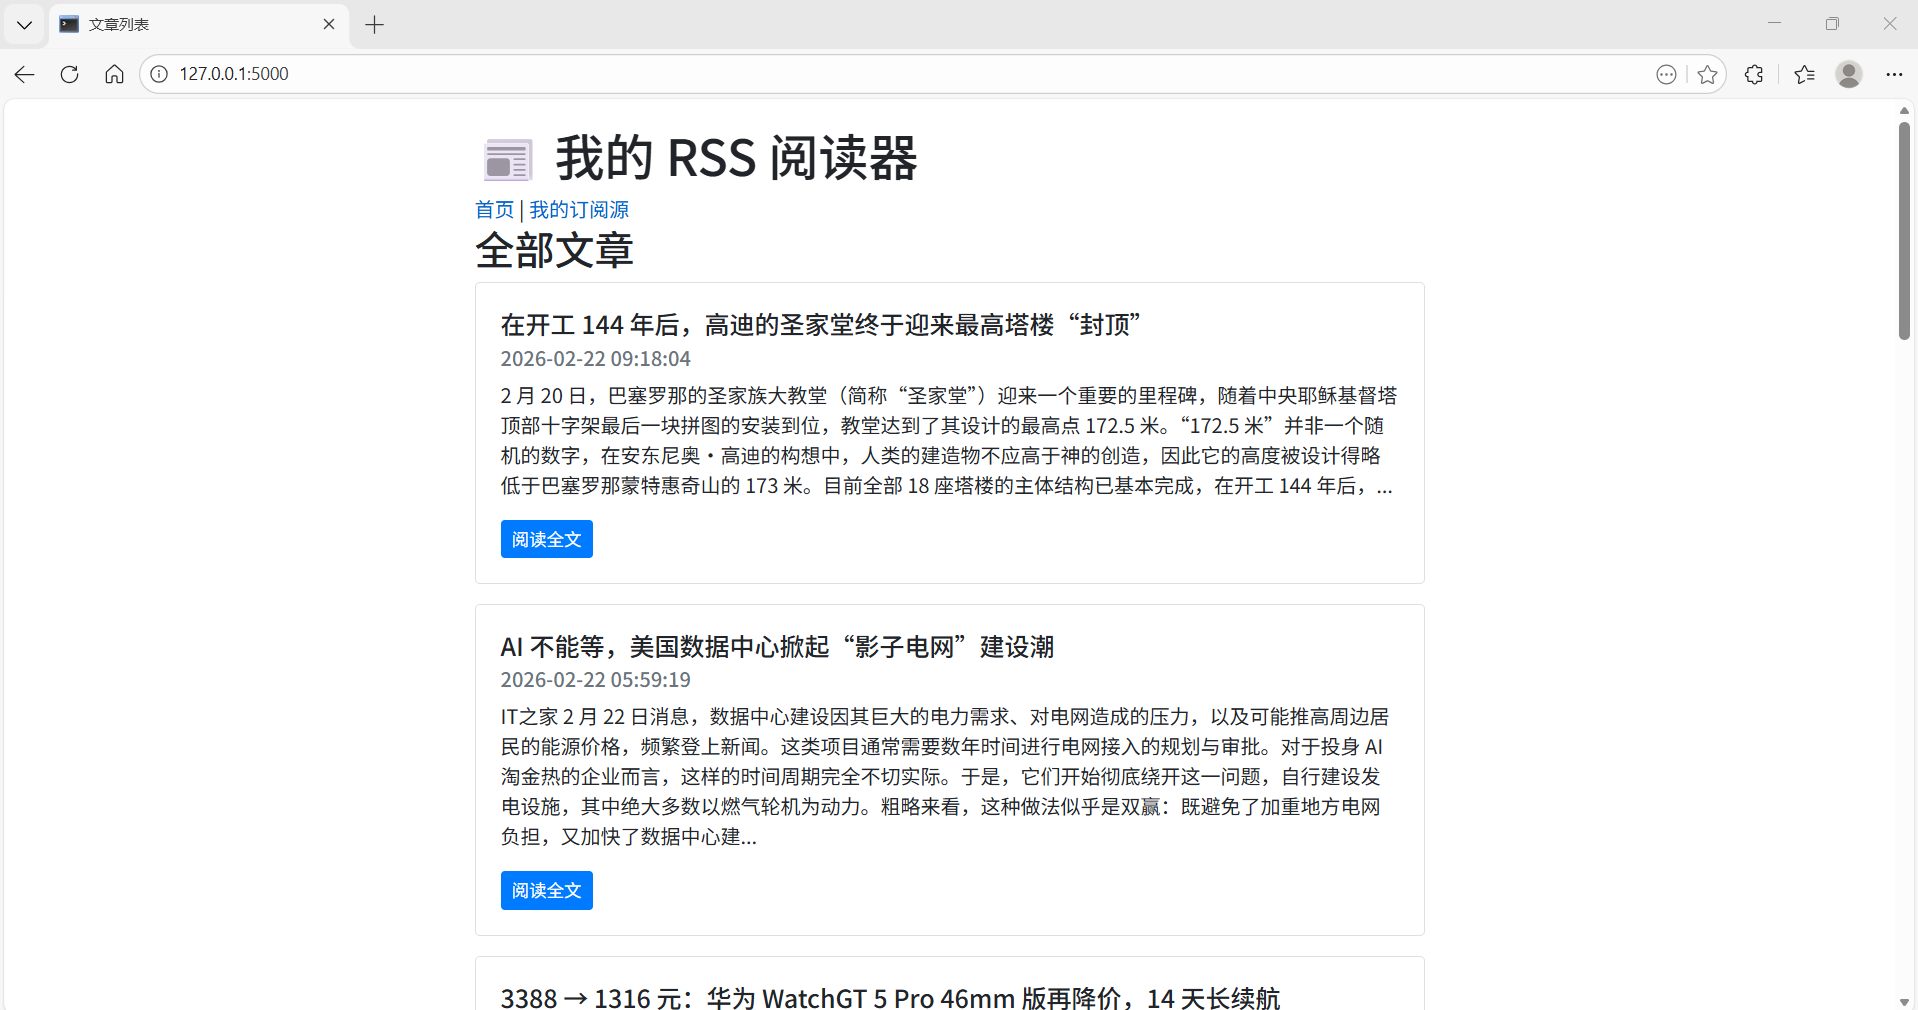
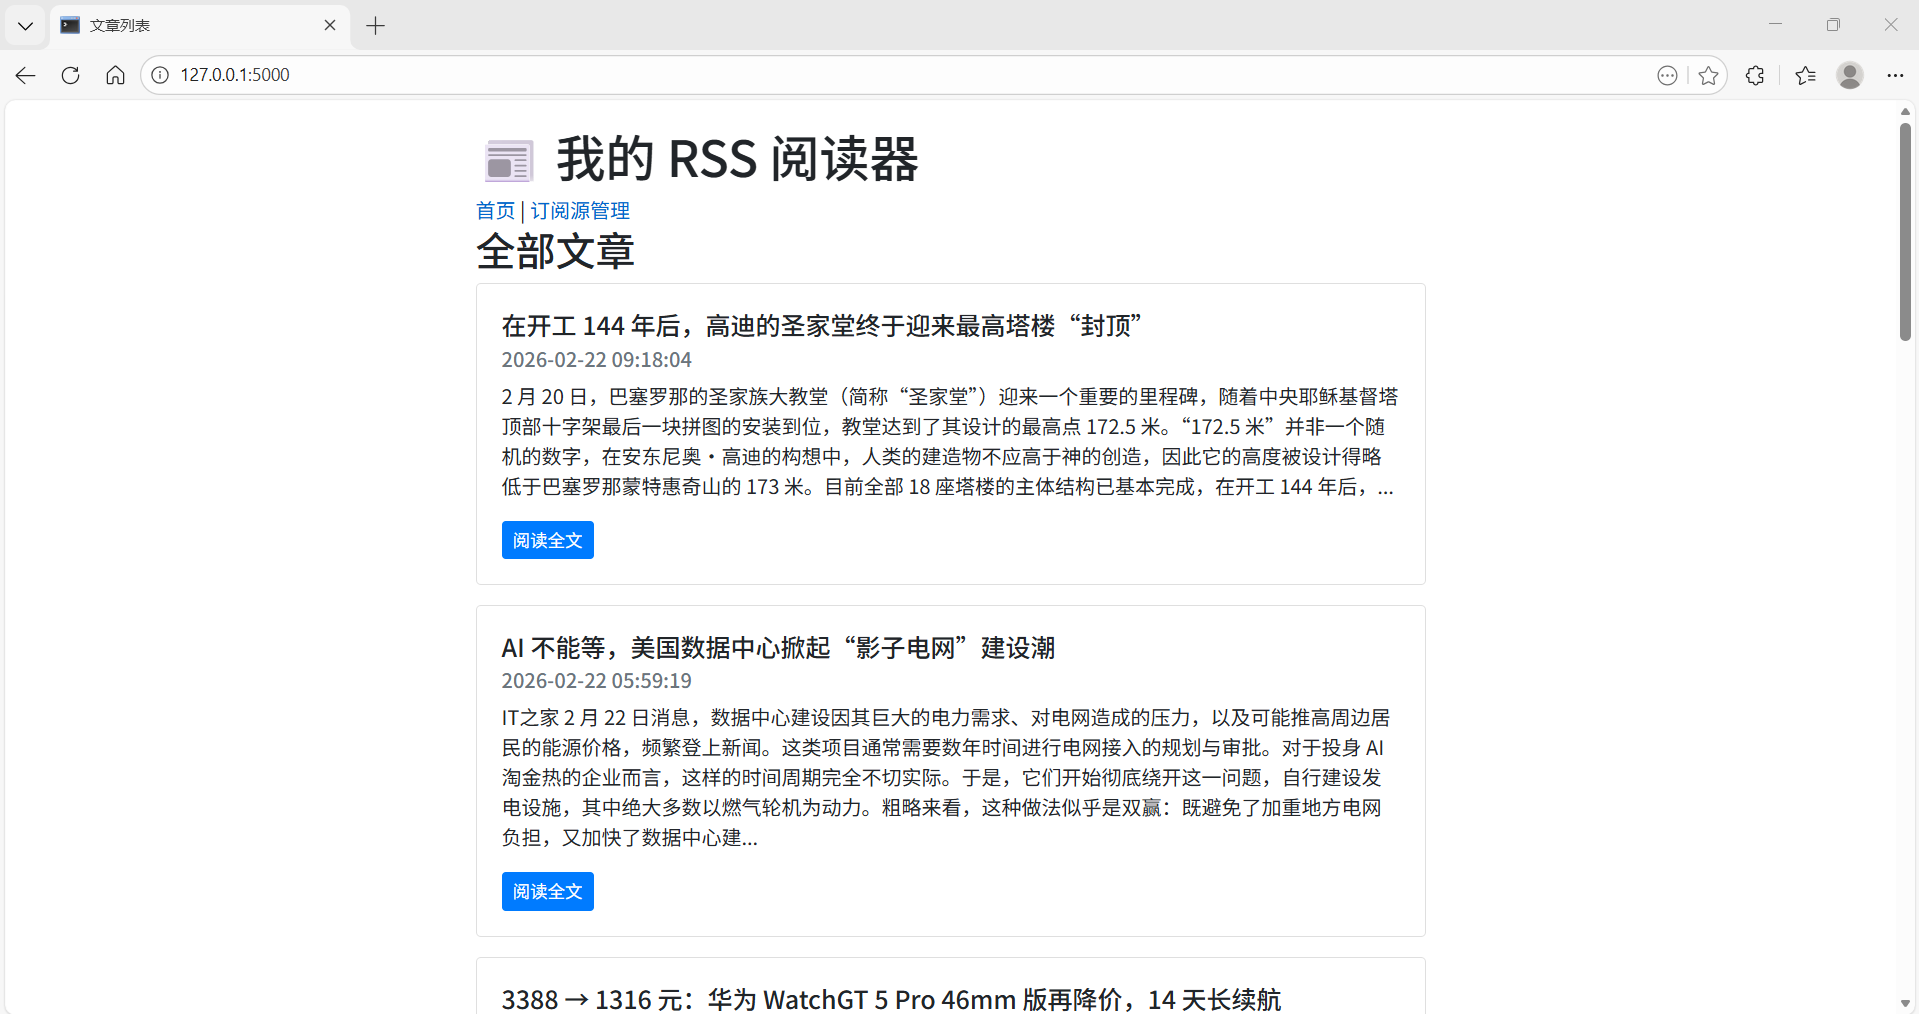
Update screenshots

diff --git a/app/templates/base.html b/app/templates/base.html
@@ -54,7 +54,7 @@
         <nav>
             <a href="{{ url_for('main.index') }}">首页</a> |
 <!--            <a href="{{ url_for('main.articles') }}">所有文章</a> |-->
-            <a href="{{ url_for('main.feeds') }}">我的订阅源</a>
+            <a href="{{ url_for('main.feeds') }}">订阅源管理</a>
         </nav>
     </header>
 

diff --git a/app/templates/feeds.html b/app/templates/feeds.html
@@ -3,7 +3,7 @@
 {% block title %}我的订阅{% endblock %}
 
 {% block content %}
-    <h2>我的订阅</h2>
+    <h2>订阅源管理</h2>
     <a href="{{ url_for('main.add_feed') }}" class="btn btn-primary mb-3">+ 添加订阅源</a>
 
     {% if feeds %}
